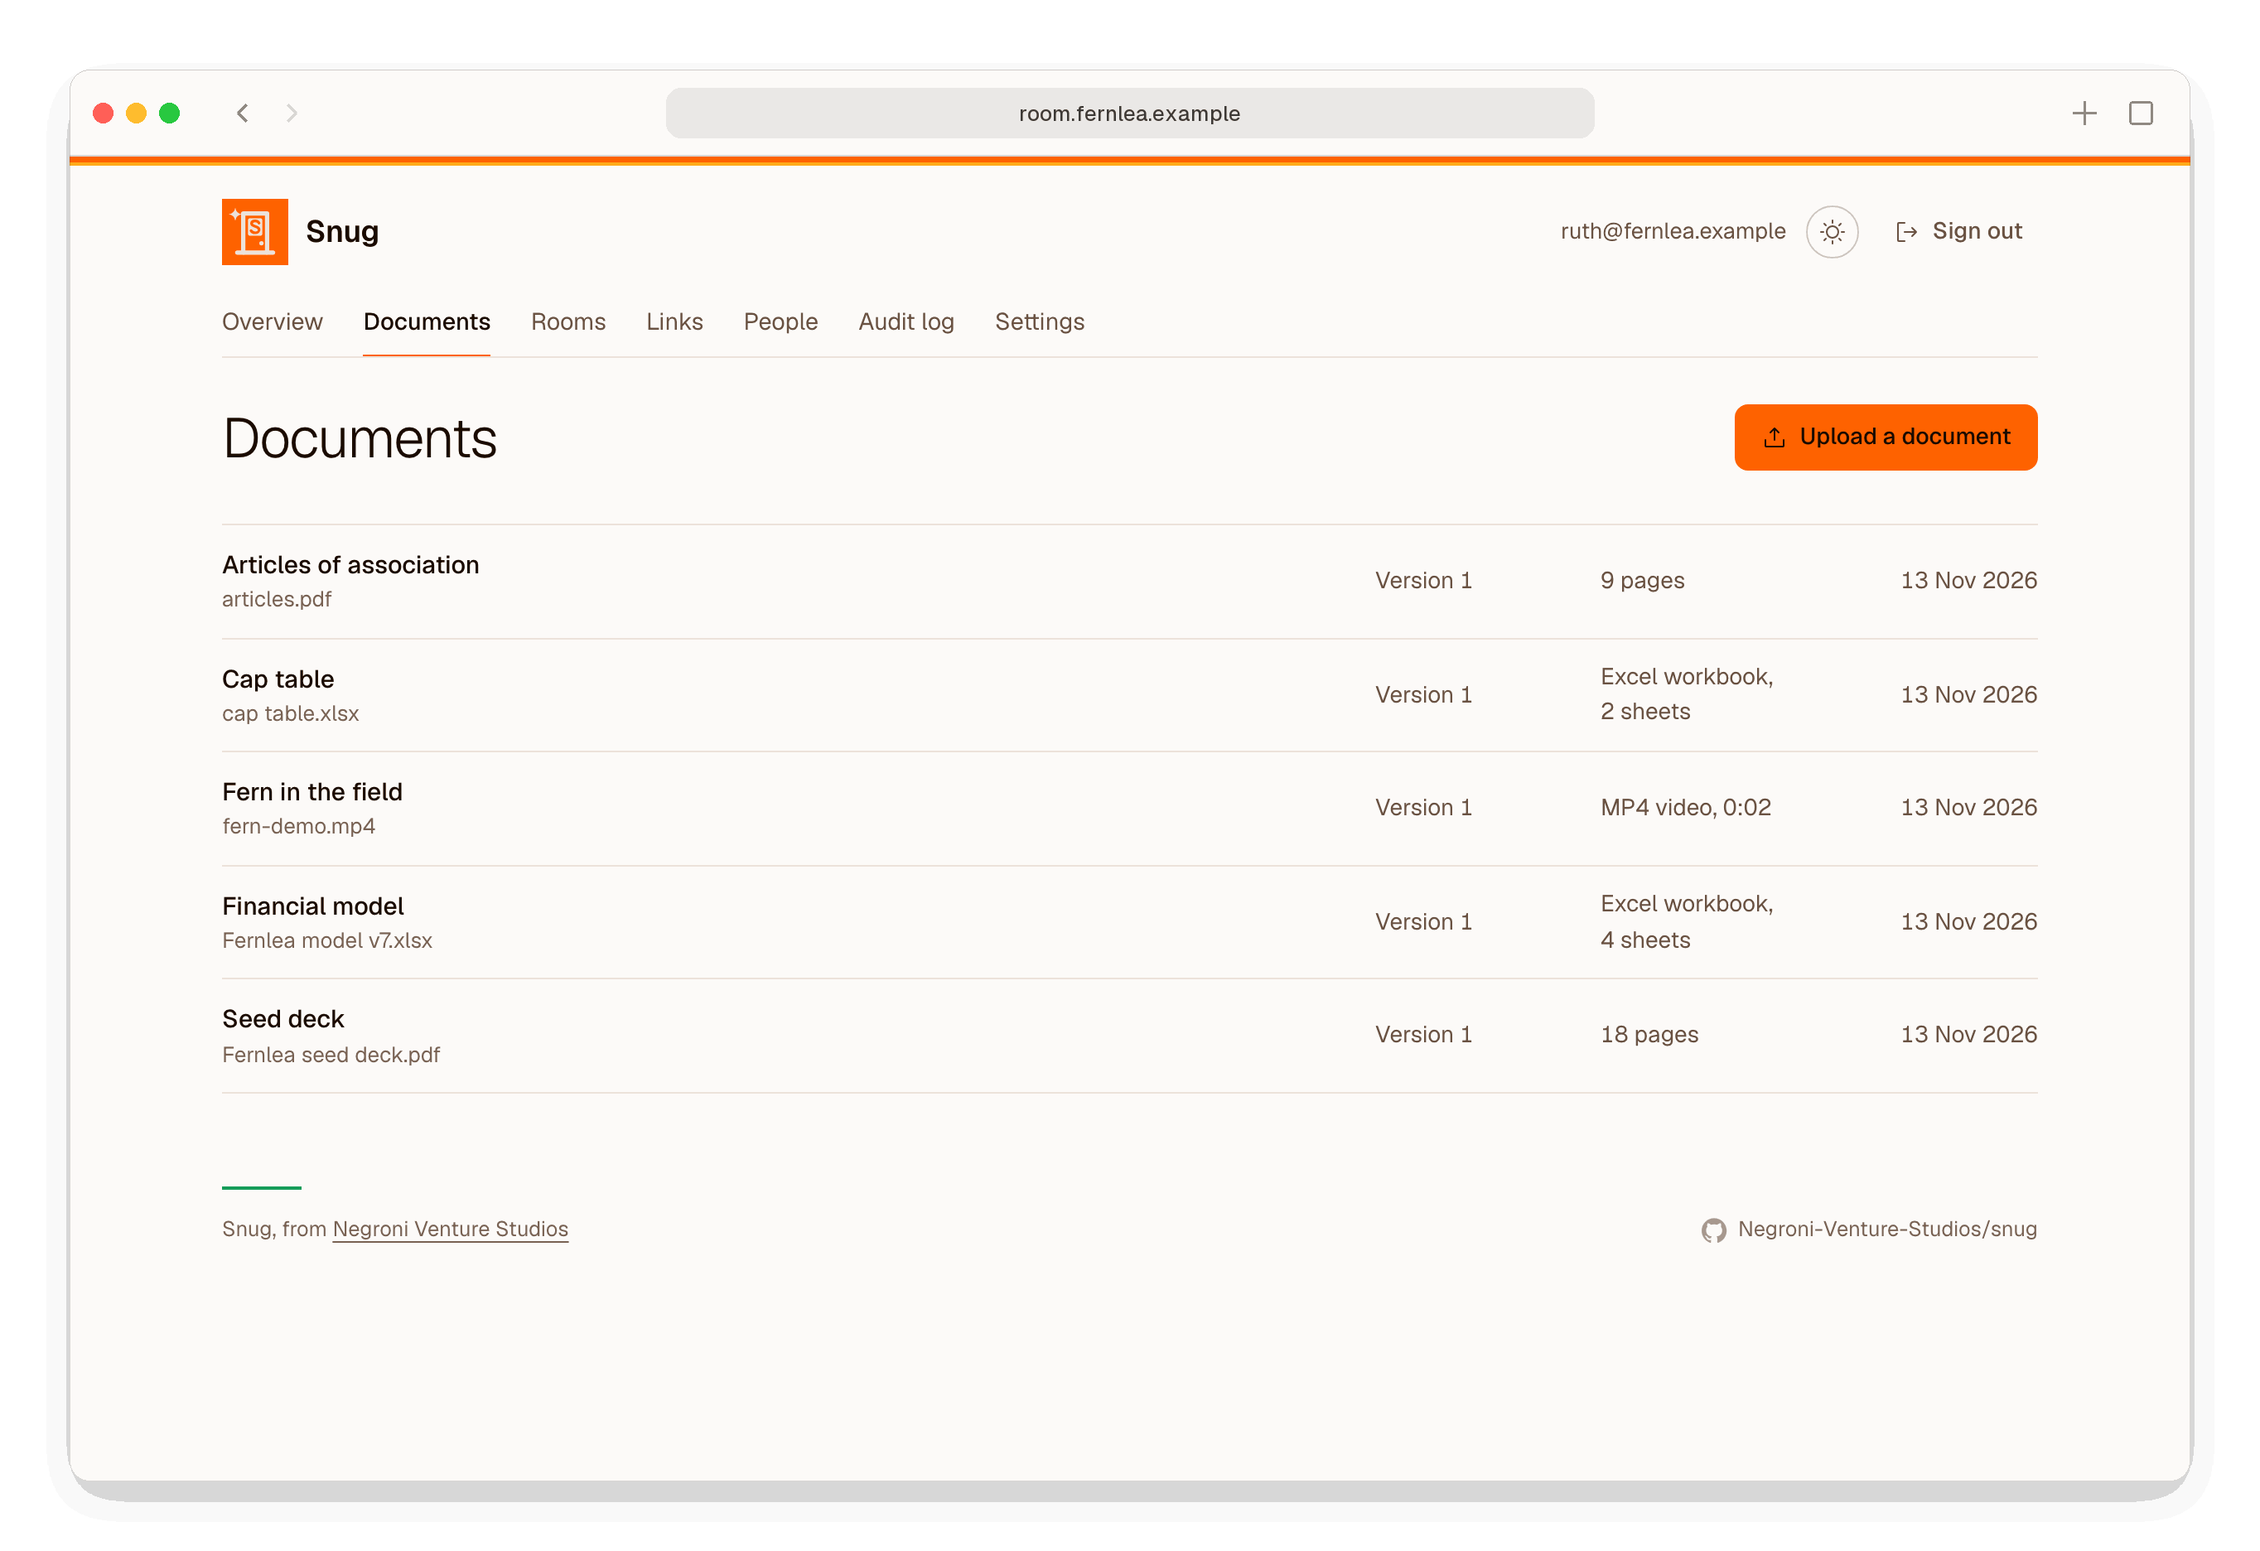
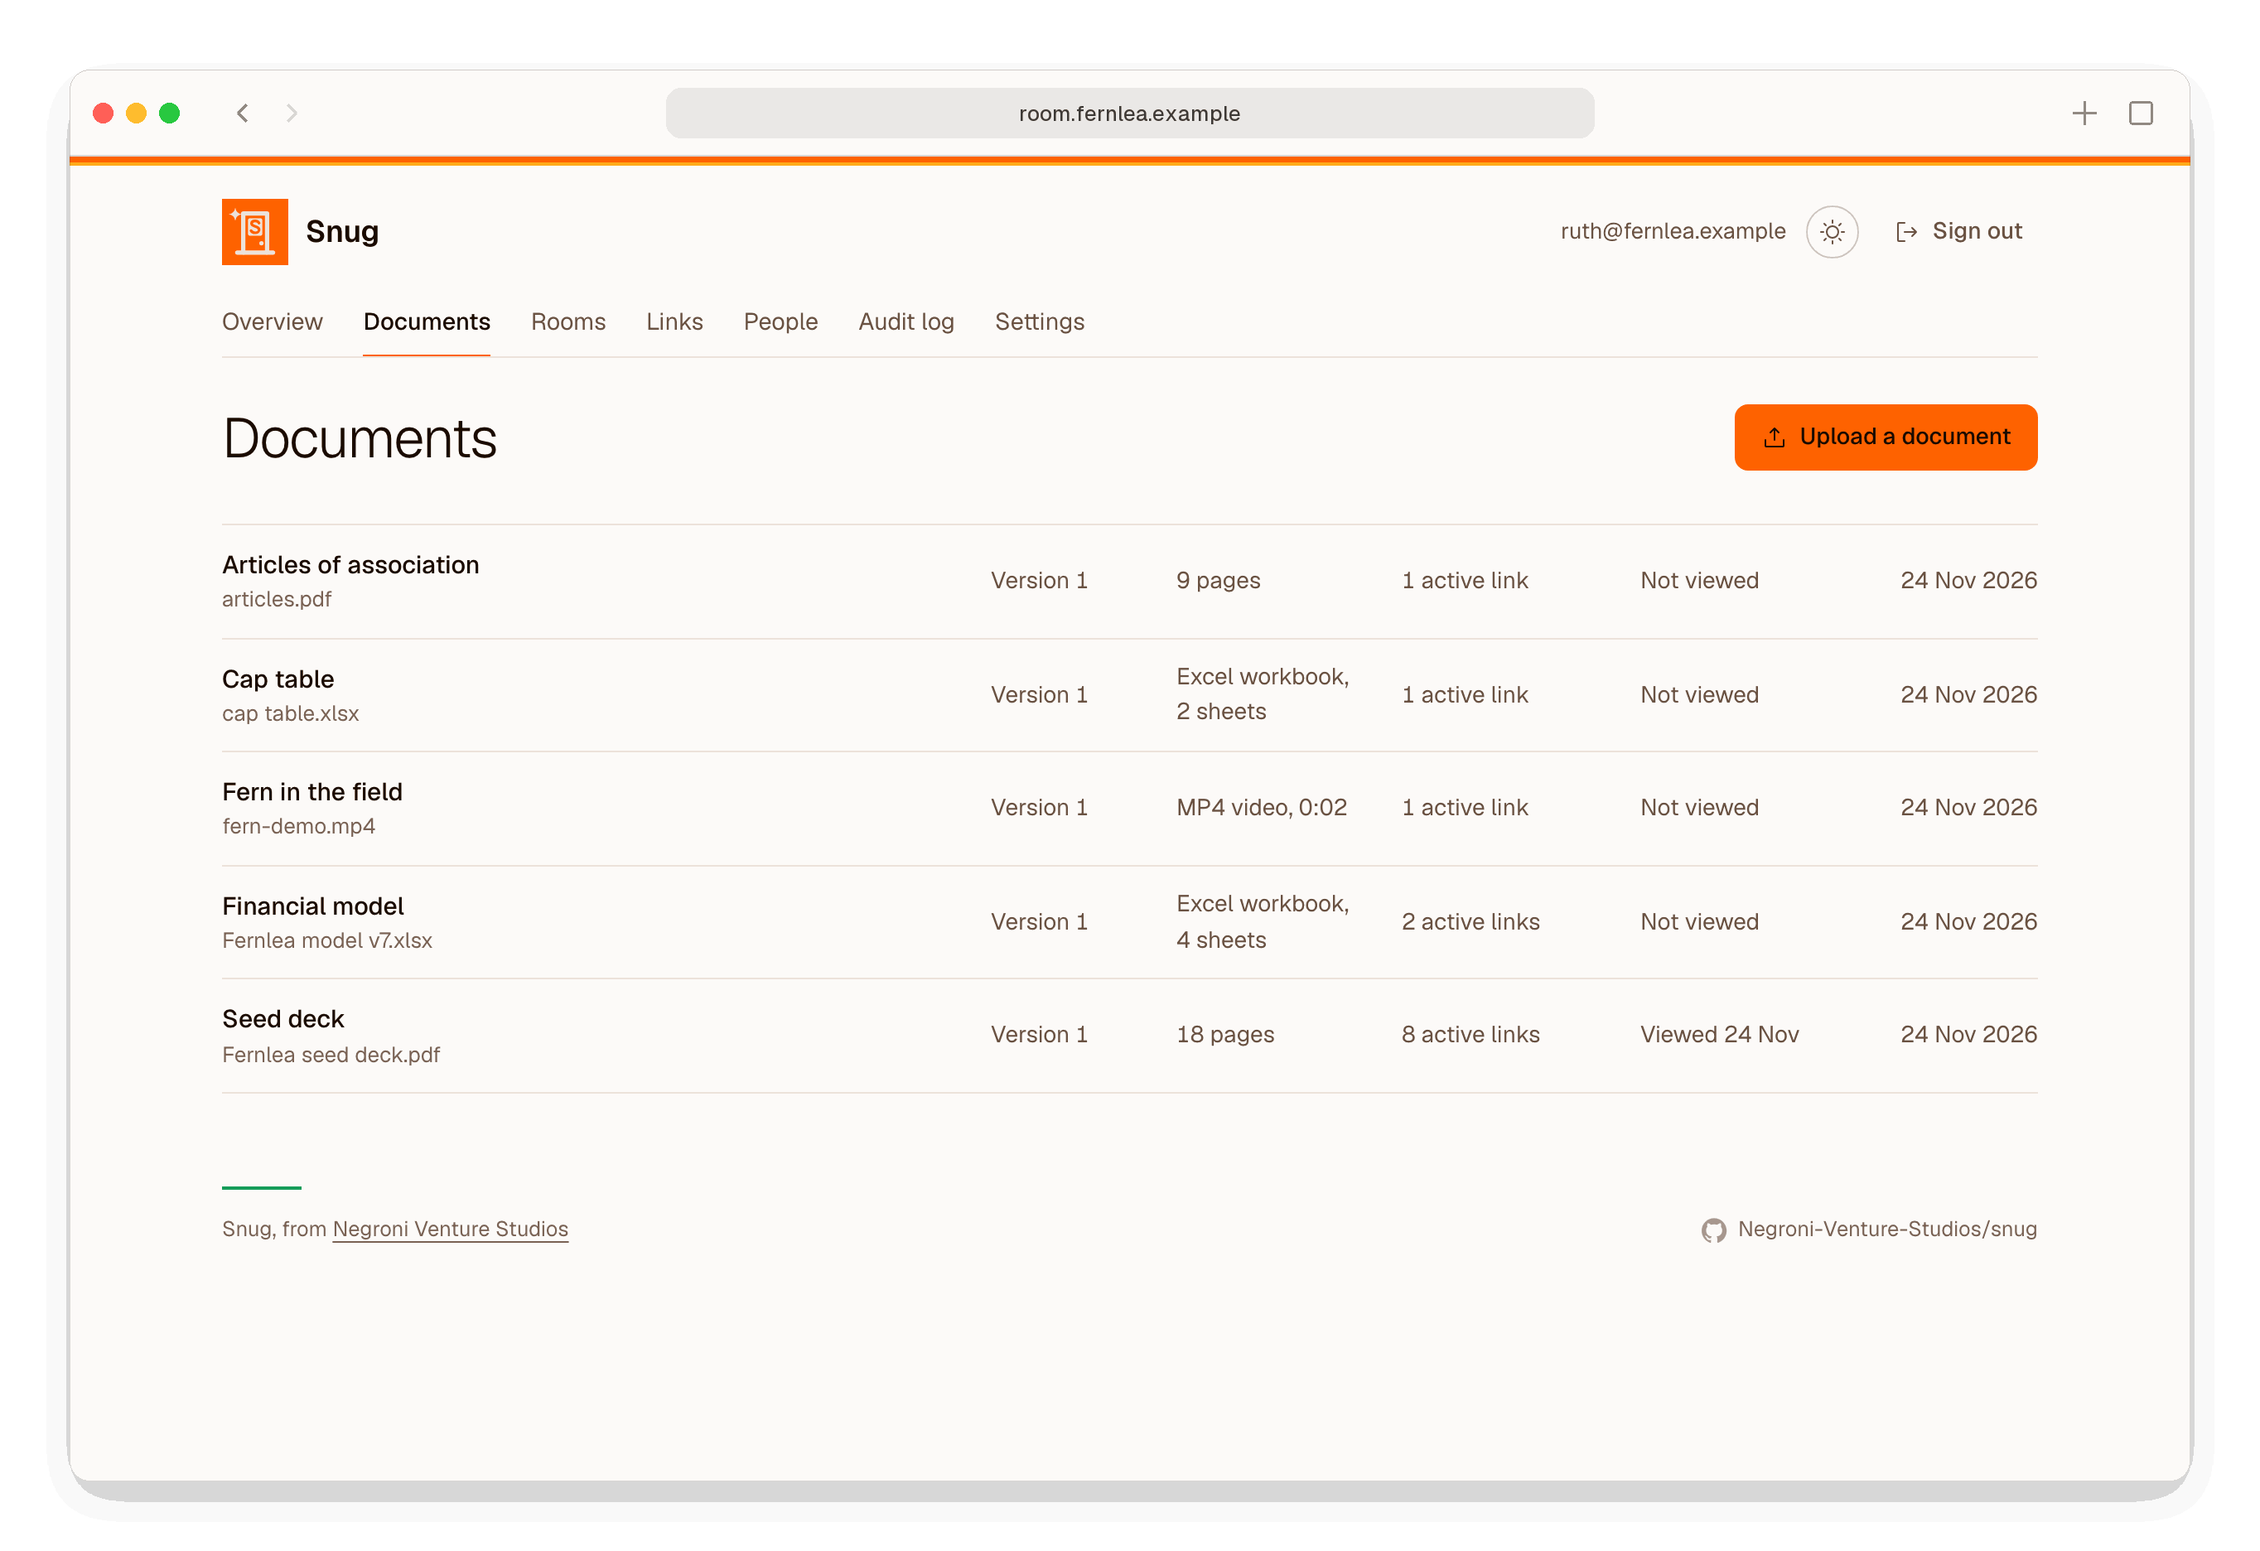
Show active links and last view on the Documents list
Each document's row now says how many active links open it, directly or
through a room, and the day it was last viewed, so a founder can see
which documents are in use without opening each one. Both come from
three grouped queries, whatever the number of documents.

diff --git a/snug/templates/documents/list.html b/snug/templates/documents/list.html
@@ -8,11 +8,13 @@
 </div>
 {% if rows %}
 <div class="rows doc-rows">
-  {% for document, latest in rows %}
+  {% for document, latest, links, viewed in rows %}
   <div class="item">
     <div class="who"><a class="email" href="{% url 'documents:detail' document.token %}">{{ document.title }}</a><span class="note">{{ latest.original_filename|default:"No readable version" }}</span></div>
     <span class="muted num">{% if latest %}Version {{ latest.number }}{% endif %}</span>
     <span class="muted num">{% if latest %}{{ latest.describe }}{% endif %}{% if document.pk in making %} <span class="status status-off">Preview being made</span>{% elif latest.preview == "failed" %} <span class="status status-warn">Preview failed</span>{% endif %}</span>
+    <span class="muted num">{% if links %}{{ links }} active link{{ links|pluralize }}{% else %}No active links{% endif %}</span>
+    <span class="muted num">{% if viewed %}Viewed {{ viewed|date:"j M" }}{% else %}Not viewed{% endif %}</span>
     <span class="r muted num">{% if latest %}{{ latest.uploaded_at|date:"j M Y" }}{% endif %}</span>
   </div>
   {% endfor %}

diff --git a/snug/static/snug/css/snug.css b/snug/static/snug/css/snug.css
@@ -551,7 +551,8 @@ input.code-field { font-family: var(--mono); letter-spacing: 0.15em; }
 form.inline { display: inline; }
 
 /* ---------- Documents ---------- */
-.doc-rows .item, .version-rows .item { grid-template-columns: minmax(14rem, 1.6fr) 7rem 7rem 8rem; }
+.version-rows .item { grid-template-columns: minmax(14rem, 1.6fr) 7rem 7rem 8rem; }
+.doc-rows .item { grid-template-columns: minmax(14rem, 1.6fr) 5.5rem 7rem 7.5rem 7rem 6.5rem; }
 /* One grid for the whole list, shared by every row through subgrid: a row
    without buttons (your own) keeps its status and date under the others. */
 .admin-rows { display: grid; grid-template-columns: minmax(14rem, 1.6fr) 6rem 11rem minmax(12rem, auto); column-gap: 1.5rem; }

diff --git a/snug/documents/views.py b/snug/documents/views.py
@@ -10,25 +10,29 @@ from django.conf import settings
 from django.contrib.auth.decorators import login_required
 from django.core.files.uploadedfile import UploadedFile
 from django.db import transaction
-from django.db.models import Prefetch
+from django.db.models import Count, Max, Prefetch, Q
 from django.http import FileResponse, Http404, HttpRequest, HttpResponse
 from django.http.response import HttpResponseBase
 from django.shortcuts import get_object_or_404, render
 from django.template.defaultfilters import pluralize
 from django.urls import reverse
+from django.utils import timezone
 from django.views.decorators.cache import never_cache
 from django.views.decorators.http import require_http_methods, require_POST, require_safe
 
 from snug.accounts.models import Admin
 from snug.analytics import charts, summary
+from snug.analytics.models import Visit
 from snug.audit.models import AuditEvent, record
 from snug.core import notices, ranges
 from snug.core.client import client_ip, user_agent
 from snug.documents import storage
 from snug.documents.ingest import Checked, UploadRejectedError, check, store
 from snug.documents.models import MAX_DESCRIPTION, Document, DocumentVersion
+from snug.links.models import Link
 from snug.office import previews
 from snug.rendering import pages, sandbox
+from snug.rooms.models import RoomDocument
 
 MAX_TITLE = 200
 PREVIEW_WIDTH = 800
@@ -122,13 +126,51 @@ def document_list(request: HttpRequest) -> HttpResponse:
     ready = DocumentVersion.objects.filter(status=DocumentVersion.Status.READY).order_by("-number")
     documents = Document.objects.prefetch_related(Prefetch("versions", queryset=ready))
     rows = [(document, next(iter(document.versions.all()), None)) for document in documents]
+    links, viewed = _in_use()
     making = set(
         DocumentVersion.objects.filter(
             preview__in=(DocumentVersion.Preview.PENDING, DocumentVersion.Preview.CONVERTING)
         ).values_list("document_id", flat=True)
     )
-    context = {"tab": "documents", "rows": rows, "making": making}
+    context = {
+        "tab": "documents",
+        "rows": [
+            (document, latest, links.get(document.pk, 0), viewed.get(document.pk))
+            for document, latest in rows
+        ],
+        "making": making,
+    }
     return render(request, "documents/list.html", context)
+
+
+def _in_use() -> tuple[dict[int, int], dict[int, Any]]:
+    """Each document's active links, direct or through a room, and its last view."""
+    live = Q(revoked_at__isnull=True) & (
+        Q(expires_at__isnull=True) | Q(expires_at__gt=timezone.now())
+    )
+    active = Link.objects.filter(live)
+    links: dict[int, int] = dict(
+        active.filter(document__isnull=False)
+        .values("document")
+        .annotate(n=Count("pk"))
+        .values_list("document", "n")
+    )
+    by_room = dict(
+        active.filter(room__isnull=False)
+        .values("room")
+        .annotate(n=Count("pk"))
+        .values_list("room", "n")
+    )
+    for room, document in RoomDocument.objects.filter(room__in=by_room).values_list(
+        "room", "document"
+    ):
+        links[document] = links.get(document, 0) + by_room[room]
+    viewed = dict(
+        Visit.objects.values("document")
+        .annotate(last=Max("last_seen_at"))
+        .values_list("document", "last")
+    )
+    return links, viewed
 
 
 @never_cache

diff --git a/tests/test_documents_in_use.py b/tests/test_documents_in_use.py
@@ -1,0 +1,83 @@
+"""The Documents list shows how many links open each document, and its last view (#153)."""
+
+import re
+from datetime import timedelta
+
+import pytest
+from django.test import Client
+from django.utils import timezone
+
+from snug.documents.models import Document
+from snug.links import service
+from snug.rooms.models import Room, RoomDocument
+from tests.test_links import admin, client
+from tests.test_overview import make_link, visit
+
+__all__ = ["admin", "client"]  # fixtures, used by name
+
+pytestmark = pytest.mark.django_db
+
+
+def row(client: Client, title: str) -> str:
+    page = client.get("/admin/documents/", secure=True).content.decode()
+    start = page.index(f">{title}</a>")
+    end = page.find('<div class="item">', start)
+    return page[start : end if end != -1 else len(page)]
+
+
+def text(html: str) -> str:
+    return " ".join(re.sub(r"<[^>]+>", " ", html).split())
+
+
+def test_links_that_open_a_document_are_counted(client: Client) -> None:
+    deck = Document.objects.create(title="Seed deck")
+    make_link("a@one.example", document=deck)
+    make_link("b@two.example", document=deck)
+    gone = make_link("c@three.example", document=deck)
+    service.revoke(gone, by=None)
+    late = make_link("d@four.example", document=deck)
+    late.expires_at = timezone.now() - timedelta(hours=1)
+    late.save()
+    # Through a room as well: three working links to a room that holds the deck.
+    room = Room.objects.create(name="Series A")
+    RoomDocument.objects.create(room=room, document=deck)
+    for name in ("e", "f", "g"):
+        make_link(f"{name}@room.example", room=room)
+    # A room that does not hold the deck adds nothing.
+    other = Room.objects.create(name="Board pack")
+    make_link("h@board.example", room=other)
+
+    assert "5 active links" in text(row(client, "Seed deck"))
+
+
+def test_one_link_and_none(client: Client) -> None:
+    one = Document.objects.create(title="Financial model")
+    make_link("a@one.example", document=one)
+    Document.objects.create(title="Cap table")
+    assert "1 active link" in text(row(client, "Financial model"))
+    assert "1 active links" not in text(row(client, "Financial model"))
+    assert "No active links" in text(row(client, "Cap table"))
+
+
+def test_the_last_view_is_shown(client: Client) -> None:
+    deck = Document.objects.create(title="Seed deck")
+    link = make_link("a@one.example", document=deck)
+    visit(link, deck, ago=timedelta(days=11), seconds=30)
+    latest = visit(link, deck, ago=timedelta(days=4), seconds=30)
+    latest.last_seen_at = latest.started_at + timedelta(minutes=20)
+    latest.save()
+    Document.objects.create(title="Cap table")
+    day = timezone.localtime(latest.last_seen_at)
+    assert f"Viewed {day.day} {day:%b}" in text(row(client, "Seed deck"))
+    assert "Not viewed" in text(row(client, "Cap table"))
+
+
+def test_the_list_does_not_grow_its_queries_with_documents(
+    client: Client, django_assert_max_num_queries: object
+) -> None:
+    for number in range(12):
+        deck = Document.objects.create(title=f"Deck {number}")
+        link = make_link(f"p{number}@one.example", document=deck)
+        visit(link, deck, ago=timedelta(days=1), seconds=5)
+    with django_assert_max_num_queries(14):  # type: ignore[operator]
+        client.get("/admin/documents/", secure=True)

diff --git a/tests/e2e/test_admin_pages.py b/tests/e2e/test_admin_pages.py
@@ -481,6 +481,7 @@ def test_every_row_list_keeps_its_columns(
     sign_in(live_server, page)
     page.set_viewport_size({"width": width, "height": 900})
     for path, rows in (
+        ("documents/", ".doc-rows .item"),
         ("links/", ".link-rows .item"),
         (f"rooms/{room.token}", ".room-rows .item"),
         (f"documents/{deck.token}", ".version-rows .item"),

diff --git a/docs/design.md b/docs/design.md
@@ -179,7 +179,7 @@ Each page has its own URL, with no hash routing, because every action is a CSRF-
 
 - **Overview.** A status line, a stat strip, and recent activity with first opens marked "New". The strip counts documents, active links, people who have visited, and visits in the last 7 days. Recent activity lists the ten latest visits: who, which document (and room), reading time, and when. The status line shows any problem from the `snug doctor` checks, such as an old backup or failing email, in an amber notice with a pointer to `snug doctor`; with none, it shows "Everything is working." Housekeeping, the backups, whether email is set up, the country data, and the Office converter are checked on each visit. The slower checks (the document worker, DNS, and HTTPS) are run by housekeeping every hour and stored, and Snug records whether each email went, writing only when that changes. Under the status line is the running version (section 4), with a link to the guide to updating Snug.
 - **Documents.**
-  - The list shows name, current version, what it is ("12 pages", "Excel workbook, 3 sheets", "PowerPoint presentation, 24 slides", "Word document", or "MP4 video, 2:05"), whether an Office file's preview is being made or failed, and upload date.
+  - The list shows name, current version, what it is ("12 pages", "Excel workbook, 3 sheets", "PowerPoint presentation, 24 slides", "Word document", or "MP4 video, 2:05"), whether an Office file's preview is being made or failed, how many active links open it (directly or through a room), the day it was last viewed, and upload date.
   - The page title is set in Geist Light, with the version, what it is, and upload date beneath it.
   - **Stat strip.** Viewers, visits, median reading time, and how many read every page. These are large figures separated by hairlines, with no card boxes.
   - **How it was read.** One aligned grid. The top row is a bar chart of average time per page. Below it, each viewer has a row of cells, one per page, shaded by time spent; empty cells were never seen. The grid is at least 18 columns wide, so a short document's cells stay small. Visits, total time, and last seen sit to the right. Because the page columns line up, the founder can see where attention went and where each person stopped, in one view. Each cell shows its value as a tooltip, and the totals are in text.

diff --git a/docs/using-snug.md b/docs/using-snug.md
@@ -33,9 +33,11 @@ To replace a document, upload a new version from its page. Every link to it show
 
 To change a document's title, use *Rename* on its page. Investors see the new title at once.
 
+*Documents* lists every document with how many active links open it, directly or through a room, and the day someone last viewed it, so you can see which are in use.
+
 <picture>
   <source media="(prefers-color-scheme: dark)" srcset="images/screenshots/documents-dark.png">
-  <img alt="The documents list: each document with its current version, what it is, such as 18 pages or an Excel workbook with 4 sheets, and when it was uploaded." src="images/screenshots/documents-light.png">
+  <img alt="The documents list: each document with its current version, what it is, such as 18 pages or an Excel workbook with 4 sheets, how many active links open it, when it was last viewed, and when it was uploaded." src="images/screenshots/documents-light.png">
 </picture>
 
 ## Seeing who read what

diff --git a/CHANGELOG.md b/CHANGELOG.md
@@ -4,6 +4,10 @@ All notable changes to Snug are recorded here. The format follows [Keep a Change
 
 ## [Unreleased]
 
+### Added
+
+- The Documents list shows how many active links open each document, directly or through a room, and the day it was last viewed.
+
 ## [1.2.0] - 2026-11-23
 
 The security release: every finding of a security audit of 1.1.3 is fixed, `snug update` checks what it downloads, the document worker may make only the system calls it needs, and LibreOffice can no longer see the converter's shared folders.
